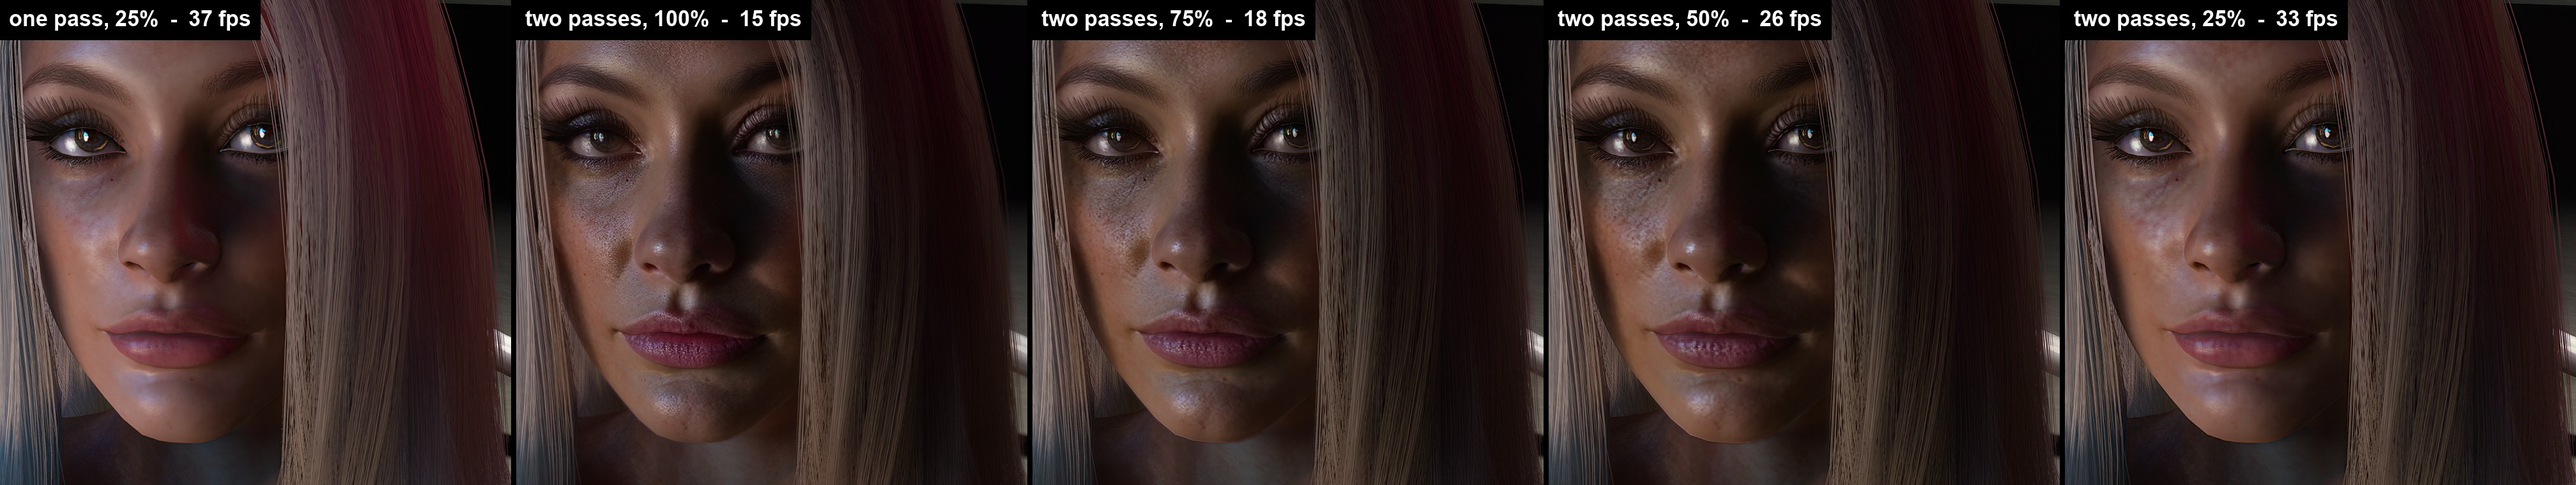
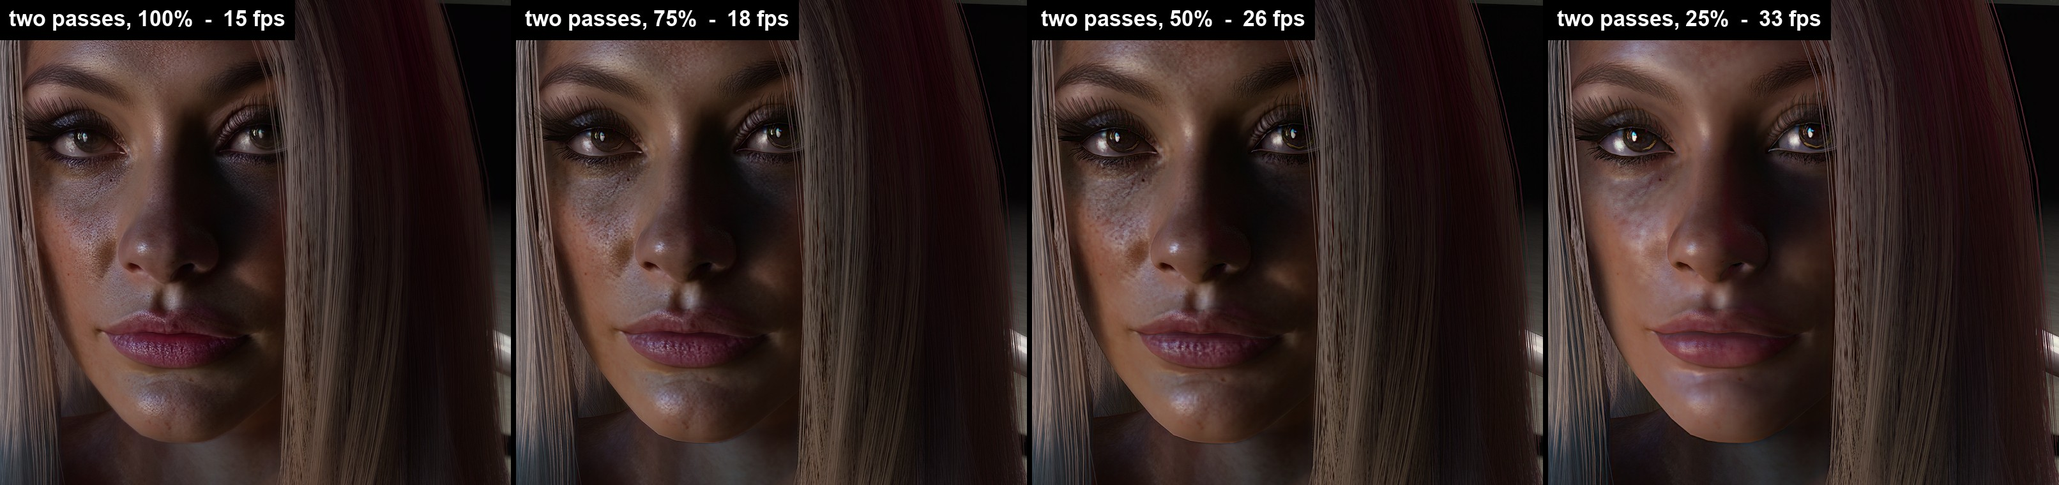
docs: the one-pass 25% example goes in the one-pass strip

diff --git a/README.md b/README.md
@@ -44,11 +44,11 @@ numbers will differ with the scene, the card and VaM DLSS's other settings; the 
 One scene at 2560x1440 on the same RTX 5060 Laptop: DLAA, then Neural Rendering. The face is cut
 out of each screenshot at the screenshot's own pixel size, so open the pictures to judge them.
 
-![Neural Rendering off, then on at 100%, 75% and 50% model resolution](docs/examples/compare-one-pass.jpg)
+![Neural Rendering off, then on at 100%, 75%, 50% and 25% model resolution](docs/examples/compare-one-pass.jpg)
 
-The same from a step closer, at 25% and with two passes of the network:
+With two passes of the network (these, and the 25% above, are from a step closer):
 
-![One pass at 25%, then two passes at 100%, 75%, 50% and 25%](docs/examples/compare-two-passes.jpg)
+![Two passes at 100%, 75%, 50% and 25%](docs/examples/compare-two-passes.jpg)
 
 Frames a second in that scene, as the overlay in the screenshots shows them. Each number opens the
 whole screenshot, with the settings panel in it:
